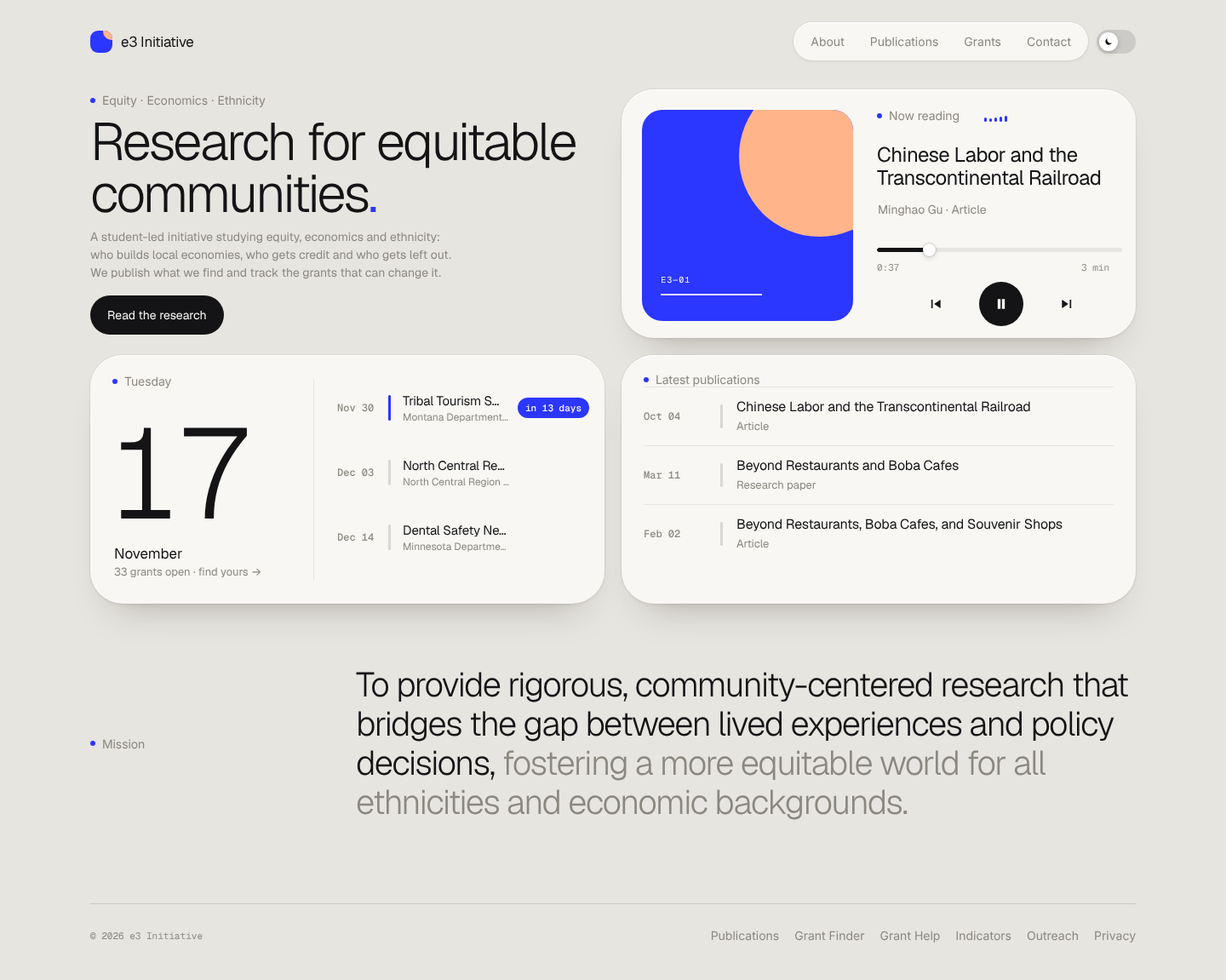
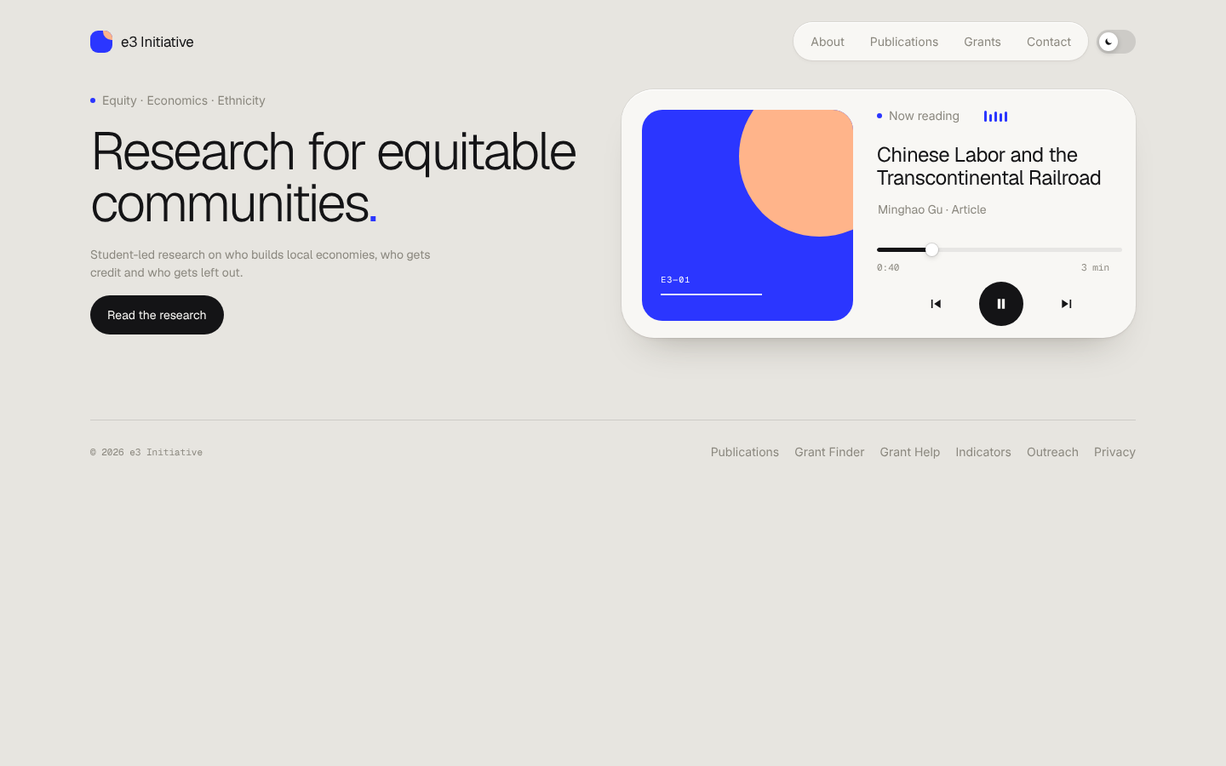
Mockups: minimal homepages
Each home is now a headline, one line, one button and a single signature
element (A: now-reading player, B: three-channel grant mixer, C: weight
specimen). Index, deadlines table and mission removed from the homes.

Claude-Session: https://claude.ai/code/session_011mp1weCWc4EXh1bK3ePj6e

diff --git a/mockups/site-b/index.html b/mockups/site-b/index.html
@@ -8,7 +8,7 @@
   <header class="nav"><a class="brand" href="index.html"><i></i>e3 Initiative</a><nav aria-label="Main"><ul id="nav"><li><a href="about.html">About</a></li><li><a href="articles.html">Publications</a></li><li><a href="grants.html">Grants</a></li><li><a href="contact.html">Contact</a></li></ul></nav>
     <button class="menu-btn cap" aria-controls="nav" aria-expanded="false">Menu</button></header>
   <main id="main">
-<div class="ph"><div><div class="cap">Equity · Economics · Ethnicity</div><h1>Research for equitable communities<span>, and the money to build them.</span></h1></div><div><p>A student-led initiative studying equity, economics and ethnicity: who builds local economies, who gets credit and who gets left out. We publish what we find and track the grants that can change it.</p><div style="margin-top:26px"><a class="mbtn" href="articles.html">Read the research</a></div></div></div><div class="panel desk" ><div class="sheen"></div>
+<div class="ph"><div><div class="cap">Equity · Economics · Ethnicity</div><h1>Research for equitable communities<span>.</span></h1></div><div><p>Student-led research on who builds local economies, who gets credit and who gets left out.</p><div style="margin-top:26px"><a class="mbtn" href="articles.html">Read the research</a></div></div></div><div class="panel desk" ><div class="sheen"></div>
   <div style="display:flex;justify-content:space-between;align-items:flex-start">
     <div><div class="cap">Grant mixer</div><div style="font-size:30px;letter-spacing:-.02em;margin-top:10px">Find funding in seconds</div></div>
     <div style="text-align:right"><div class="cap">Matching</div><div class="mono" style="font-size:30px;letter-spacing:-.02em;margin-top:10px" id="tot">0</div></div>
@@ -18,14 +18,9 @@
       <div class="cap">Deadline window</div>
       <div class="knob" id="win" data-label="Deadline window" style="margin:22px auto 0"></div>
       <div style="text-align:center;margin-top:8px"><div style="font-size:24px;letter-spacing:-.02em" id="wl">Any time</div></div>
-      <div style="margin-top:22px"><div class="mrow cap">Closing soon<b id="mC" style="color:rgb(var(--led-near))">—</b></div><div class="mrow cap">Rolling<b id="mR">—</b></div></div>
+      <a class="mbtn" href="grants.html" style="margin-top:26px;width:100%;justify-content:center">See the grants</a>
     </div>
-  </div>
-  <div id="results" style="margin-top:6px" aria-live="polite"></div></div>
-<section><div class="shead"><div><div class="cap">Latest</div><h2>Publications</h2></div><a href="articles.html">All publications →</a></div>
-  <a class="panel feat" href="article-railroad.html"><div class="sheen"></div><img src="../../image/chinese-workers-summit-tunnel.jpg" alt="Chinese railroad workers among rocks near the opening of Summit Tunnel, 1865–1867"><div class="txt"><div><div class="cap">Article · Oct 04 2026 · Minghao Gu</div><h3>Chinese Labor and the Transcontinental Railroad</h3></div><div><p>Minghao Gu examines the dangerous labor, resistance, and overlooked legacy of Chinese immigrants who helped build the Transcontinental Railroad.</p><div style="display:flex;gap:12px;align-items:center;margin-top:20px"><span class="meter " data-n="12" data-lit="3" data-near="0"></span><span class="cap">3 min</span></div></div></div></a>
-</section>
-<section><div class="cap">Mission</div><p style="font-weight:300;font-size:40px;line-height:1.15;letter-spacing:-.03em;max-width:28ch;margin-top:18px">To provide rigorous, community-centered research that bridges the gap between lived experiences and policy decisions,<span class=dim> fostering a more equitable world for all ethnicities and economic backgrounds.</span></p></section>
+  </div></div>
   </main>
   <footer><span class="cap">© 2026 e3 Initiative</span><nav aria-label="Footer"><a class="cap" href="articles.html">Publications</a><a class="cap" href="grants.html">Grant Finder</a><a class="cap" href="grant-help.html">Grant Help</a><a class="cap" href="economic-indicators.html">Indicators</a><a class="cap" href="outreach.html">Outreach</a><a class="cap" href="privacy.html">Privacy</a></nav></footer>
 </div>
@@ -35,7 +30,7 @@ const G = [["women_owned", "Amber Grant for Women", "WomensNet", 50000, null], [
 const WIN = [[14, '14 days', '14D'], [30, '30 days', '30D'], [60, '60 days', '60D'], [Infinity, 'Any time', 'ANY']];
 const money = v => v >= 1e6 ? '$' + (v / 1e6).toFixed(v % 1e6 ? 1 : 0) + 'M' : v >= 1000 ? '$' + Math.round(v / 1000) + 'k' : '$' + Math.round(v);
 const valAt = p => p < .08 ? 0 : Math.pow(10, 3 + 3 * (p - .08) / .92), posOf = v => v <= 0 ? 0 : .08 + .92 * (Math.log10(v) - 3) / 3;
-const mins = {}, faders = {}; let win = 3;
+const mins = {}; let win = 3;
 CH.forEach(c => { mins[c.id] = 0; const s = document.createElement('div'); s.className = 'strip vline';
   const tk = [[1, '1M'], [posOf(1e5), '100k'], [posOf(1e4), '10k'], [0, '0']].map(([p, l]) => `<span style="top:${(1 - p) * 100}%">${l}</span>`).join('');
   s.innerHTML = `<div class="nm cap"><i style="background:${c.shade}"></i>${c.name}-owned</div>
@@ -43,19 +38,15 @@ CH.forEach(c => { mins[c.id] = 0; const s = document.createElement('div'); s.cla
     <div class="lm">${Array.from({ length: 10 }, (_, k) => `<i style="top:${300 - (k + 1) * 30 + 3}px"></i>`).join('')}</div><div class="tag"></div>
     <div class="val"></div><div class="share cap"></div>`;
   $('#board').insertBefore(s, $('.master')); c.el = s;
-  faders[c.id] = makeFader($('.fader', s), 0, p => { mins[c.id] = valAt(p); render(); }); });
+  makeFader($('.fader', s), 0, p => { mins[c.id] = valAt(p); render(); }); });
 const knob = makeKnob($('#win'), WIN.map(w => w[2]), 3, i => { win = i; render(); });
-function render() { const W = WIN[win][0]; let M = 0, Cl = 0, R = 0; const shown = [];
+function render() { const W = WIN[win][0]; let M = 0;
   CH.forEach(c => { const hit = G.filter(g => g[0] === c.id && (!g[3] || g[3] >= mins[c.id]) && (g[4] === null || g[4] <= W)), dated = hit.filter(g => g[4] !== null).sort((a, b) => a[4] - b[4]);
-    M += hit.length; Cl += dated.length; R += hit.length - dated.length; shown.push(...hit);
-    const lit = hit.length * 2, amber = dated.length * 2, s = c.el;
+    M += hit.length; const lit = hit.length * 2, amber = dated.length * 2, s = c.el;
     $$('.lm i', s).forEach((m, k) => m.className = k < lit ? (k >= lit - amber ? 'near' : 'on') : '');
     const tag = $('.tag', s); tag.style.opacity = dated.length ? 1 : 0; tag.textContent = dated.length ? dated[0][4] + 'd' : ''; tag.style.top = 84 + 300 - Math.max(lit, 1) * 30 - 30 + 'px';
     $('.val', s).textContent = mins[c.id] ? '≥' + money(mins[c.id]) : 'Any amount'; $('.share', s).textContent = hit.length + ' match'; });
-  $('#wl').textContent = WIN[win][1]; $('#tot').textContent = M; $('#mC').textContent = Cl || '—'; $('#mR').textContent = R;
-  shown.sort((a, b) => (a[4] ?? 999) - (b[4] ?? 999) || b[3] - a[3]);
-  $('#results').innerHTML = shown.slice(0, 3).map(g => `<a class="rrow" href="grants.html" style="grid-template-columns:14px 1fr 120px 90px"><span class="led ${g[4] !== null ? 'near' : 'on'}"></span><div><div class="n">${g[1]}</div><div class="f">${g[2]}</div></div><span class="a">${g[3] ? 'up to ' + money(g[3]) : 'varies'}</span><span class="d ${g[4] !== null ? 'near' : ''}">${g[4] !== null ? 'in ' + g[4] + 'd' : 'rolling'}</span></a>`).join('')
-    + `<a class="empty" href="grants.html" style="display:block">${shown.length > 3 ? '+ ' + (shown.length - 3) + ' more · ' : ''}open the full grant finder →</a>`; }
+  $('#wl').textContent = WIN[win][1]; $('#tot').textContent = M; }
 render();
 if (!reduce) setTimeout(() => knob.set(2), 900);
 </script>

diff --git a/mockups/site-a/index.html b/mockups/site-a/index.html
@@ -24,7 +24,7 @@
   <div class="hero">
     <div class="label "><i></i>Equity · Economics · Ethnicity</div>
     <h1>Research for equitable communities<span>.</span></h1>
-    <div><p>A student-led initiative studying equity, economics and ethnicity: who builds local economies, who gets credit and who gets left out. We publish what we find and track the grants that can change it.</p><div class="cta"><a class="btn" href="articles.html">Read the research</a></div></div>
+    <div><p>Student-led research on who builds local economies, who gets credit and who gets left out.</p><div class="cta"><a class="btn" href="articles.html">Read the research</a></div></div>
   </div>
   <div class="tile w2 player rise">
     <div class="pcov">
@@ -41,15 +41,7 @@
     <button class="play" id="play" aria-label="Pause"><svg id="pi" width="20" height="20" viewBox="0 0 24 24" fill="currentColor"><path d="M7 5h4v14H7zM13 5h4v14h-4z"/></svg></button>
     <button class="ctl" style="left:504px" id="next" aria-label="Next piece"><svg width="20" height="20" viewBox="0 0 24 24" fill="currentColor"><path d="M15 6h2v12h-2zM4 6v12l9-6z"/></svg></button>
   </div>
-  <a class="tile w2 cal rise" href="grants.html">
-    <div class="label abs"><i></i>Tuesday</div>
-    <div class="day">17</div><div class="month">November</div>
-    <div class="sum">33 grants open · find yours →</div>
-    <div class="div"></div><div class="list" id="list"><span class="chip a" id="chip"></span></div>
-  </a>
-  <div class="tile w2 rows rise" style="padding-top:20px"><div class="label "><i></i>Latest publications</div><a class="crow" href="article-railroad.html"><span class="t">Oct 04</span><span class="m"></span><div><div class="n">Chinese Labor and the Transcontinental Railroad</div><div class=d>Article</div></div></a><a class="crow" href="research-chinatown.html"><span class="t">Mar 11</span><span class="m"></span><div><div class="n">Beyond Restaurants and Boba Cafes</div><div class=d>Research paper</div></div></a><a class="crow" href="article-chinatown.html"><span class="t">Feb 02</span><span class="m"></span><div><div class="n">Beyond Restaurants, Boba Cafes, and Souvenir Shops</div><div class=d>Article</div></div></a></div>
 </div>
-<section class="mission"><div class="label "><i></i>Mission</div><p>To provide rigorous, community-centered research that bridges the gap between lived experiences and policy decisions, <span>fostering a more equitable world for all ethnicities and economic backgrounds.</span></p></section>
 
   </main>
   <footer>
@@ -59,7 +51,7 @@
 </div>
 <script src="theme.js"></script>
 <script>
-const PIECES = [{"t": "Chinese Labor and the Transcontinental Railroad", "by": "Minghao Gu \u00b7 Article", "len": 3, "href": "article-railroad.html"}, {"t": "Beyond Restaurants and Boba Cafes", "by": "Minghao Gu \u00b7 Research paper", "len": 8, "href": "research-chinatown.html"}, {"t": "Beyond Restaurants, Boba Cafes, and Souvenir Shops", "by": "Minghao Gu \u00b7 Article", "len": 4, "href": "article-chinatown.html"}], EVENTS = [{"t": "Nov 30", "n": "Spark Good Local Grants", "d": "Walmart \u00b7 $5k", "chip": "in 13 days"}, {"t": "Nov 30", "n": "Tribal Tourism Small Business Grant", "d": "Montana Department of Commerce \u00b7 $10k", "chip": "in 13 days"}, {"t": "Dec 03", "n": "North Central Region SARE Farmer Rancher Grant", "d": "North Central Region SARE \u00b7 $30k", "chip": "in 16 days"}, {"t": "Dec 14", "n": "Dental Safety Net Grant Program", "d": "Minnesota Department of Health \u00b7 $34k", "chip": "in 27 days"}, {"t": "Dec 15", "n": "2027 Heroes Small Business Grant Program", "d": "Hiring Our Heroes \u00b7 $25k", "chip": "in 28 days"}, {"t": "Dec 16", "n": "Public Humanities Projects", "d": "National Endowment for the Humanities \u00b7 $500k", "chip": "in 29 days"}];
+const PIECES = [{"t": "Chinese Labor and the Transcontinental Railroad", "by": "Minghao Gu \u00b7 Article", "len": 3, "href": "article-railroad.html"}, {"t": "Beyond Restaurants and Boba Cafes", "by": "Minghao Gu \u00b7 Research paper", "len": 8, "href": "research-chinatown.html"}, {"t": "Beyond Restaurants, Boba Cafes, and Souvenir Shops", "by": "Minghao Gu \u00b7 Article", "len": 4, "href": "article-chinatown.html"}];
 let cur = 0, pos = 0.4, playing = !reduce; const arts = $$('.art');
 function setText() { $('#ttl').textContent = PIECES[cur].t; $('#ttl').href = PIECES[cur].href; $('#by').textContent = PIECES[cur].by; $('#len').textContent = PIECES[cur].len + ' min'; }
 function show(i, dir) { const old = arts[cur]; cur = (i + 3) % 3; const nu = arts[cur];
@@ -73,10 +65,6 @@ const bars = $$('.eq b'); let last = performance.now();
   const f = Math.min(1, pos / PIECES[cur].len), w = $('.prog').offsetWidth; $('#pf').style.width = w * f + 'px'; $('#pk').style.left = $('.prog').offsetLeft + w * f + 'px';
   $('#el').textContent = Math.floor(pos) + ':' + String(Math.floor((pos % 1) * 60)).padStart(2, '0');
   bars.forEach((b, i) => b.style.height = (playing ? 4 + 10 * Math.abs(Math.sin(now / 1000 * (5 + i * 1.7) + i)) : 3) + 'px'); requestAnimationFrame(loop); })(last);
-const rows = EVENTS.map(e => { const r = document.createElement('div'); r.className = 'row'; r.innerHTML = `<span class="t">${e.t}</span><span class="m"></span><div><div class="n">${e.n}</div><div class="d">${e.d}</div></div>`; $('#list').insertBefore(r, $('#chip')); return r; });
-let top0 = 0; function place() { rows.forEach((r, i) => { const k = i - top0; r.style.top = k * 76 + 'px'; r.style.opacity = k >= 0 && k < 3 ? 1 : 0; r.classList.toggle('next', k === 0); });
-  $('#chip').style.opacity = 0; setTimeout(() => { $('#chip').textContent = EVENTS[top0].chip; $('#chip').style.opacity = 1; }, 300); }
-place(); if (!reduce) setInterval(() => { top0 = (top0 + 1) % (EVENTS.length - 2); place(); }, 3600);
 </script>
 </body>
 </html>

diff --git a/mockups/site-c/index.html b/mockups/site-c/index.html
@@ -14,12 +14,9 @@
   <div class="slider" id="sl" data-label="Weight" data-ro="hover the word for a lens"></div>
   <div class="lede2">
     <h1>Some contributions get set in <span class="w1">thin</span>. We research to give them their <span class="w8">full weight.</span></h1>
-    <div><p>A student-led initiative studying equity, economics and ethnicity: who builds local economies, who gets credit and who gets left out. We publish what we find and track the grants that can change it.</p><div class="btns"><a class="pill" href="articles.html">Read the research</a></div></div>
+    <div><p>Student-led research on who builds local economies, who gets credit and who gets left out.</p><div class="btns"><a class="pill" href="articles.html">Read the research</a></div></div>
   </div>
 </div>
-<section><div class="sh"><h2>Index</h2><a href="articles.html">All publications →</a></div><a class="pub" href="article-railroad.html"><div class="no">01</div><div><h3>Chinese Labor and the Transcontinental Railroad: The Uncredited Contributions and Lost Legacy</h3><p>Minghao Gu examines the dangerous labor, resistance, and overlooked legacy of Chinese immigrants who helped build the Transcontinental Railroad.</p></div><div><div class="meta"><b>Article</b><br>Oct 04 2026<br>Minghao Gu · 3 min</div></div></a><a class="pub" href="research-chinatown.html"><div class="no">02</div><div><h3>Beyond Restaurants and Boba Cafes: The Historical and Modern Economic Solidarity of Chinatown</h3><p>Full research paper examining the historical origins, cultural preservation, and modern resilience of Chinatown as an ethnic economy built on solidarity, identity, and community.</p></div><div><div class="meta"><b>Research paper</b><br>Mar 11 2026<br>Minghao Gu · 8 min</div></div></a><a class="pub" href="article-chinatown.html"><div class="no">03</div><div><h3>Beyond Restaurants, Boba Cafes, and Souvenir Shops: The Historical and Modern Economic Solidarity of Chinatown</h3><p>A historical and contemporary look at how Chinatowns foster economic solidarity, cultural preservation, and community resilience across generations.</p></div><div><div class="meta"><b>Article</b><br>Feb 02 2026<br>Minghao Gu · 4 min</div></div></a></section>
-<section><div class="sh"><h2>Closing soon</h2><a href="grants.html">All 33 open grants →</a></div>
-  <table class="gt"><thead><tr><th>Grant</th><th>Max award</th><th style="text-align:right">Deadline</th></tr></thead><tbody><tr class="hot" onclick="window.open('https://www.walmart.org/how-we-give/program-guidelines/spark-good-local-grants-guidelines','_blank')"><td><div class="n">Spark Good Local Grants</div><div class="f">Walmart</div></td><td class="a">$5k</td><td class="d" style="font-variation-settings:'wght' 738">Nov 30<small>in 13 days · wght 738</small></td></tr><tr class="hot" onclick="window.open('https://commerce.mt.gov/Business/Indian-Country/Indian-Country-Financial-Assistance/Tribal-Tourism-Small-Business-Grant','_blank')"><td><div class="n">Tribal Tourism Small Business Grant</div><div class="f">Montana Department of Commerce</div></td><td class="a">$10k</td><td class="d" style="font-variation-settings:'wght' 738">Nov 30<small>in 13 days · wght 738</small></td></tr><tr class="" onclick="window.open('https://northcentral.sare.org/grants/apply-for-a-grant/farmer-rancher-grant/','_blank')"><td><div class="n">North Central Region SARE Farmer Rancher Grant</div><div class="f">North Central Region SARE (NCR-SARE)</div></td><td class="a">$30k</td><td class="d" style="font-variation-settings:'wght' 700">Dec 03<small>in 16 days · wght 700</small></td></tr><tr class="" onclick="window.open('https://www.health.state.mn.us/facilities/ruralhealth/funding/grants/index.html','_blank')"><td><div class="n">Dental Safety Net Grant Program</div><div class="f">Minnesota Department of Health</div></td><td class="a">$34k</td><td class="d" style="font-variation-settings:'wght' 562">Dec 14<small>in 27 days · wght 562</small></td></tr></tbody></table></section>
 
   </main>
   <footer><span class="lab">© 2026 e3 Initiative · set in Geist</span><nav aria-label="Footer"><a href="articles.html">Publications</a><a href="grants.html">Grant Finder</a><a href="grant-help.html">Grant Help</a><a href="economic-indicators.html">Indicators</a><a href="outreach.html">Outreach</a><a href="privacy.html">Privacy</a></nav></footer>

diff --git a/mockups/build/minimal2.py b/mockups/build/minimal2.py
@@ -1,0 +1,115 @@
+"""Homepage-only minimal pass: headline, one line, one button, one signature element."""
+from common import replace_func
+
+HOME_A = r'''
+def home():
+    """Nav, hero, one player tile, footer."""
+    pieces = [{"t": p["title"].split(":")[0], "by": f'{p["author"]} · {p["kind"]}', "len": p["min"], "href": p["slug"] + ".html"} for p in PUBS]
+    import json as _j
+    body = f"""
+<div class="home">
+  <div class="hero">
+    {label('Equity · Economics · Ethnicity')}
+    <h1>{TAGLINE}<span>.</span></h1>
+    <div><p>Student-led research on who builds local economies, who gets credit and who gets left out.</p><div class="cta"><a class="btn" href="articles.html">Read the research</a></div></div>
+  </div>
+  <div class="tile w2 player rise">
+    <div class="pcov">
+      <div class="art cover cv-a"><span class="mk">E3—01</span></div>
+      <div class="art cover cv-b" style="transform:translateX(110%)"><span class="mk">E3—02</span></div>
+      <div class="art cover cv-c" style="transform:translateX(110%)"><span class="mk">E3—03</span></div>
+    </div>
+    {label('Now reading', 'abs')}
+    <div class="eq" aria-hidden="true">{''.join(f'<b style="left:{i*6}px"></b>' for i in range(5))}</div>
+    <a class="ttl" id="ttl" href="#"></a><div class="by" id="by"></div>
+    <div class="prog"><div class="f" id="pf"></div></div><div class="knob" id="pk"></div>
+    <div class="times" id="el" style="left:300px">0:00</div><div class="times" id="len" style="left:540px"></div>
+    <button class="ctl" style="left:348px" id="prev" aria-label="Previous piece"><svg width="20" height="20" viewBox="0 0 24 24" fill="currentColor"><path d="M7 6h2v12H7zM20 6v12l-9-6z"/></svg></button>
+    <button class="play" id="play" aria-label="Pause"><svg id="pi" width="20" height="20" viewBox="0 0 24 24" fill="currentColor"><path d="M7 5h4v14H7zM13 5h4v14h-4z"/></svg></button>
+    <button class="ctl" style="left:504px" id="next" aria-label="Next piece"><svg width="20" height="20" viewBox="0 0 24 24" fill="currentColor"><path d="M15 6h2v12h-2zM4 6v12l9-6z"/></svg></button>
+  </div>
+</div>
+"""
+    js = f"""<script>
+const PIECES = {_j.dumps(pieces)};
+let cur = 0, pos = 0.4, playing = !reduce; const arts = $$('.art');
+function setText() {{ $('#ttl').textContent = PIECES[cur].t; $('#ttl').href = PIECES[cur].href; $('#by').textContent = PIECES[cur].by; $('#len').textContent = PIECES[cur].len + ' min'; }}
+function show(i, dir) {{ const old = arts[cur]; cur = (i + 3) % 3; const nu = arts[cur];
+  nu.style.transition = 'none'; nu.style.transform = `translateX(${{dir * 110}}%)`; nu.style.opacity = 1; nu.style.zIndex = 2; old.style.zIndex = 1;
+  requestAnimationFrame(() => requestAnimationFrame(() => {{ nu.style.transition = ''; nu.style.transform = 'none'; old.style.transform = `translateX(${{-dir * 40}}px) scale(.94)`; old.style.opacity = .1; }}));
+  ['#ttl', '#by'].forEach(s => $(s).style.opacity = 0); setTimeout(() => {{ setText(); ['#ttl', '#by'].forEach(s => $(s).style.opacity = 1); }}, 150); pos = 0; }}
+setText(); $('#next').onclick = () => show(cur + 1, 1); $('#prev').onclick = () => show(cur - 1, -1);
+$('#play').onclick = () => {{ playing = !playing; $('#play').setAttribute('aria-label', playing ? 'Pause' : 'Play'); $('#pi').innerHTML = playing ? '<path d="M7 5h4v14H7zM13 5h4v14h-4z"/>' : '<path d="M8 5v14l11-7z"/>'; }};
+const bars = $$('.eq b'); let last = performance.now();
+(function loop(now) {{ const dt = (now - last) / 1000; last = now; if (playing) pos += dt * 0.05;
+  const f = Math.min(1, pos / PIECES[cur].len), w = $('.prog').offsetWidth; $('#pf').style.width = w * f + 'px'; $('#pk').style.left = $('.prog').offsetLeft + w * f + 'px';
+  $('#el').textContent = Math.floor(pos) + ':' + String(Math.floor((pos % 1) * 60)).padStart(2, '0');
+  bars.forEach((b, i) => b.style.height = (playing ? 4 + 10 * Math.abs(Math.sin(now / 1000 * (5 + i * 1.7) + i)) : 3) + 'px'); requestAnimationFrame(loop); }})(last);
+</script>"""
+    return shell("index", body, js)
+'''
+
+HOME_B = r'''
+def home():
+    """Nav, hero, one three-channel mixer, footer."""
+    three = [("minority_owned", "Minority", "#f1f1f3"), ("women_owned", "Women", "#c6c6cb"), ("veteran_owned", "Veteran", "#8a8a90")]
+    G = [[g["category"], g["name"], g["funder"].split(" (")[0], g.get("amountMax") or 0, days_left(g)] for g in OPEN if g["category"] in [a for a, _, _ in three]]
+    body = ph("Equity · Economics · Ethnicity", f"{TAGLINE}<span>.</span>", "Student-led research on who builds local economies, who gets credit and who gets left out.",
+              '<div style="margin-top:26px"><a class="mbtn" href="articles.html">Read the research</a></div>') + panel(f"""
+  <div style="display:flex;justify-content:space-between;align-items:flex-start">
+    <div><div class="cap">Grant mixer</div><div style="font-size:30px;letter-spacing:-.02em;margin-top:10px">Find funding in seconds</div></div>
+    <div style="text-align:right"><div class="cap">Matching</div><div class="mono" style="font-size:30px;letter-spacing:-.02em;margin-top:10px" id="tot">0</div></div>
+  </div>
+  <div class="board mini3" id="board">
+    <div class="master vline">
+      <div class="cap">Deadline window</div>
+      <div class="knob" id="win" data-label="Deadline window" style="margin:22px auto 0"></div>
+      <div style="text-align:center;margin-top:8px"><div style="font-size:24px;letter-spacing:-.02em" id="wl">Any time</div></div>
+      <a class="mbtn" href="grants.html" style="margin-top:26px;width:100%;justify-content:center">See the grants</a>
+    </div>
+  </div>""", "desk")
+    js = f"""<script>
+const G = {json.dumps(G, ensure_ascii=False)}, CH = {json.dumps([{"id": a, "name": b, "shade": c} for a, b, c in three])};
+const WIN = [[14, '14 days', '14D'], [30, '30 days', '30D'], [60, '60 days', '60D'], [Infinity, 'Any time', 'ANY']];
+const money = v => v >= 1e6 ? '$' + (v / 1e6).toFixed(v % 1e6 ? 1 : 0) + 'M' : v >= 1000 ? '$' + Math.round(v / 1000) + 'k' : '$' + Math.round(v);
+const valAt = p => p < .08 ? 0 : Math.pow(10, 3 + 3 * (p - .08) / .92), posOf = v => v <= 0 ? 0 : .08 + .92 * (Math.log10(v) - 3) / 3;
+const mins = {{}}; let win = 3;
+CH.forEach(c => {{ mins[c.id] = 0; const s = document.createElement('div'); s.className = 'strip vline';
+  const tk = [[1, '1M'], [posOf(1e5), '100k'], [posOf(1e4), '10k'], [0, '0']].map(([p, l]) => `<span style="top:${{(1 - p) * 100}}%">${{l}}</span>`).join('');
+  s.innerHTML = `<div class="nm cap"><i style="background:${{c.shade}}"></i>${{c.name}}-owned</div>
+    <div class="fader"><div class="fticks">${{tk}}</div><div class="trk"><div class="fill"></div></div><div class="fcap" tabindex="0" role="slider" aria-label="Minimum award, ${{c.name}}-owned"></div></div>
+    <div class="lm">${{Array.from({{ length: 10 }}, (_, k) => `<i style="top:${{300 - (k + 1) * 30 + 3}}px"></i>`).join('')}}</div><div class="tag"></div>
+    <div class="val"></div><div class="share cap"></div>`;
+  $('#board').insertBefore(s, $('.master')); c.el = s;
+  makeFader($('.fader', s), 0, p => {{ mins[c.id] = valAt(p); render(); }}); }});
+const knob = makeKnob($('#win'), WIN.map(w => w[2]), 3, i => {{ win = i; render(); }});
+function render() {{ const W = WIN[win][0]; let M = 0;
+  CH.forEach(c => {{ const hit = G.filter(g => g[0] === c.id && (!g[3] || g[3] >= mins[c.id]) && (g[4] === null || g[4] <= W)), dated = hit.filter(g => g[4] !== null).sort((a, b) => a[4] - b[4]);
+    M += hit.length; const lit = hit.length * 2, amber = dated.length * 2, s = c.el;
+    $$('.lm i', s).forEach((m, k) => m.className = k < lit ? (k >= lit - amber ? 'near' : 'on') : '');
+    const tag = $('.tag', s); tag.style.opacity = dated.length ? 1 : 0; tag.textContent = dated.length ? dated[0][4] + 'd' : ''; tag.style.top = 84 + 300 - Math.max(lit, 1) * 30 - 30 + 'px';
+    $('.val', s).textContent = mins[c.id] ? '≥' + money(mins[c.id]) : 'Any amount'; $('.share', s).textContent = hit.length + ' match'; }});
+  $('#wl').textContent = WIN[win][1]; $('#tot').textContent = M; }}
+render();
+if (!reduce) setTimeout(() => knob.set(2), 900);
+</script>"""
+    return shell("index", body, js)
+'''
+
+
+def apply():
+    for fn, name, src in [("theme_a.py", "home", HOME_A), ("theme_b.py", "home", HOME_B)]:
+        s = open(fn).read()
+        open(fn, "w").write(replace_func(s, name, src))
+    # C: keep the specimen and the lede; drop the index and the closing-soon table
+    s = open("theme_c.py").read()
+    a = s.index('<section><div class="sh"><h2>Index</h2>')
+    b = s.index('</table></section>"""', a) + len('</table></section>')
+    s = s[:a] + s[b:]
+    s = s.replace('<div><p>{LEDE}</p><div class="btns"><a class="pill" href="articles.html">Read the research</a></div></div>',
+                  '<div><p>Student-led research on who builds local economies, who gets credit and who gets left out.</p><div class="btns"><a class="pill" href="articles.html">Read the research</a></div></div>')
+    open("theme_c.py", "w").write(s)
+
+
+if __name__ == "__main__":
+    apply()

diff --git a/mockups/build/theme_b.py b/mockups/build/theme_b.py
@@ -363,11 +363,10 @@ def prow(p):
 
 # ——— pages ———
 def home():
-    """Seven blocks: nav, hero, a three-channel mixer, its top matches, the latest piece, mission, footer."""
+    """Nav, hero, one three-channel mixer, footer."""
     three = [("minority_owned", "Minority", "#f1f1f3"), ("women_owned", "Women", "#c6c6cb"), ("veteran_owned", "Veteran", "#8a8a90")]
     G = [[g["category"], g["name"], g["funder"].split(" (")[0], g.get("amountMax") or 0, days_left(g)] for g in OPEN if g["category"] in [a for a, _, _ in three]]
-    p0 = PUBS[0]
-    body = ph("Equity · Economics · Ethnicity", f"{TAGLINE}<span>, and the money to build them.</span>", LEDE,
+    body = ph("Equity · Economics · Ethnicity", f"{TAGLINE}<span>.</span>", "Student-led research on who builds local economies, who gets credit and who gets left out.",
               '<div style="margin-top:26px"><a class="mbtn" href="articles.html">Read the research</a></div>') + panel(f"""
   <div style="display:flex;justify-content:space-between;align-items:flex-start">
     <div><div class="cap">Grant mixer</div><div style="font-size:30px;letter-spacing:-.02em;margin-top:10px">Find funding in seconds</div></div>
@@ -378,20 +377,15 @@ def home():
       <div class="cap">Deadline window</div>
       <div class="knob" id="win" data-label="Deadline window" style="margin:22px auto 0"></div>
       <div style="text-align:center;margin-top:8px"><div style="font-size:24px;letter-spacing:-.02em" id="wl">Any time</div></div>
-      <div style="margin-top:22px"><div class="mrow cap">Closing soon<b id="mC" style="color:rgb(var(--led-near))">—</b></div><div class="mrow cap">Rolling<b id="mR">—</b></div></div>
+      <a class="mbtn" href="grants.html" style="margin-top:26px;width:100%;justify-content:center">See the grants</a>
     </div>
-  </div>
-  <div id="results" style="margin-top:6px" aria-live="polite"></div>""", "desk") + f"""
-<section><div class="shead"><div><div class="cap">Latest</div><h2>Publications</h2></div><a href="articles.html">All publications →</a></div>
-  {panel(f'<img src="{IMG}{p0["img"]}" alt="{esc(p0["alt"])}"><div class="txt"><div><div class="cap">{p0["kind"]} · {p0["short"]} · {p0["author"]}</div><h3>{esc(p0["title"].split(":")[0])}</h3></div><div><p>{esc(p0["summary"])}</p><div style="display:flex;gap:12px;align-items:center;margin-top:20px">{meter(12, p0["min"])}<span class="cap">{p0["min"]} min</span></div></div></div>', "feat", "a", f'href="{p0["slug"]}.html"')}
-</section>
-<section><div class="cap">Mission</div><p style="font-weight:300;font-size:40px;line-height:1.15;letter-spacing:-.03em;max-width:28ch;margin-top:18px">{MISSION.replace(', fostering', ',<span class=dim> fostering').replace('backgrounds.', 'backgrounds.</span>')}</p></section>"""
+  </div>""", "desk")
     js = f"""<script>
 const G = {json.dumps(G, ensure_ascii=False)}, CH = {json.dumps([{"id": a, "name": b, "shade": c} for a, b, c in three])};
 const WIN = [[14, '14 days', '14D'], [30, '30 days', '30D'], [60, '60 days', '60D'], [Infinity, 'Any time', 'ANY']];
 const money = v => v >= 1e6 ? '$' + (v / 1e6).toFixed(v % 1e6 ? 1 : 0) + 'M' : v >= 1000 ? '$' + Math.round(v / 1000) + 'k' : '$' + Math.round(v);
 const valAt = p => p < .08 ? 0 : Math.pow(10, 3 + 3 * (p - .08) / .92), posOf = v => v <= 0 ? 0 : .08 + .92 * (Math.log10(v) - 3) / 3;
-const mins = {{}}, faders = {{}}; let win = 3;
+const mins = {{}}; let win = 3;
 CH.forEach(c => {{ mins[c.id] = 0; const s = document.createElement('div'); s.className = 'strip vline';
   const tk = [[1, '1M'], [posOf(1e5), '100k'], [posOf(1e4), '10k'], [0, '0']].map(([p, l]) => `<span style="top:${{(1 - p) * 100}}%">${{l}}</span>`).join('');
   s.innerHTML = `<div class="nm cap"><i style="background:${{c.shade}}"></i>${{c.name}}-owned</div>
@@ -399,19 +393,15 @@ CH.forEach(c => {{ mins[c.id] = 0; const s = document.createElement('div'); s.cl
     <div class="lm">${{Array.from({{ length: 10 }}, (_, k) => `<i style="top:${{300 - (k + 1) * 30 + 3}}px"></i>`).join('')}}</div><div class="tag"></div>
     <div class="val"></div><div class="share cap"></div>`;
   $('#board').insertBefore(s, $('.master')); c.el = s;
-  faders[c.id] = makeFader($('.fader', s), 0, p => {{ mins[c.id] = valAt(p); render(); }}); }});
+  makeFader($('.fader', s), 0, p => {{ mins[c.id] = valAt(p); render(); }}); }});
 const knob = makeKnob($('#win'), WIN.map(w => w[2]), 3, i => {{ win = i; render(); }});
-function render() {{ const W = WIN[win][0]; let M = 0, Cl = 0, R = 0; const shown = [];
+function render() {{ const W = WIN[win][0]; let M = 0;
   CH.forEach(c => {{ const hit = G.filter(g => g[0] === c.id && (!g[3] || g[3] >= mins[c.id]) && (g[4] === null || g[4] <= W)), dated = hit.filter(g => g[4] !== null).sort((a, b) => a[4] - b[4]);
-    M += hit.length; Cl += dated.length; R += hit.length - dated.length; shown.push(...hit);
-    const lit = hit.length * 2, amber = dated.length * 2, s = c.el;
+    M += hit.length; const lit = hit.length * 2, amber = dated.length * 2, s = c.el;
     $$('.lm i', s).forEach((m, k) => m.className = k < lit ? (k >= lit - amber ? 'near' : 'on') : '');
     const tag = $('.tag', s); tag.style.opacity = dated.length ? 1 : 0; tag.textContent = dated.length ? dated[0][4] + 'd' : ''; tag.style.top = 84 + 300 - Math.max(lit, 1) * 30 - 30 + 'px';
     $('.val', s).textContent = mins[c.id] ? '≥' + money(mins[c.id]) : 'Any amount'; $('.share', s).textContent = hit.length + ' match'; }});
-  $('#wl').textContent = WIN[win][1]; $('#tot').textContent = M; $('#mC').textContent = Cl || '—'; $('#mR').textContent = R;
-  shown.sort((a, b) => (a[4] ?? 999) - (b[4] ?? 999) || b[3] - a[3]);
-  $('#results').innerHTML = shown.slice(0, 3).map(g => `<a class="rrow" href="grants.html" style="grid-template-columns:14px 1fr 120px 90px"><span class="led ${{g[4] !== null ? 'near' : 'on'}}"></span><div><div class="n">${{g[1]}}</div><div class="f">${{g[2]}}</div></div><span class="a">${{g[3] ? 'up to ' + money(g[3]) : 'varies'}}</span><span class="d ${{g[4] !== null ? 'near' : ''}}">${{g[4] !== null ? 'in ' + g[4] + 'd' : 'rolling'}}</span></a>`).join('')
-    + `<a class="empty" href="grants.html" style="display:block">${{shown.length > 3 ? '+ ' + (shown.length - 3) + ' more · ' : ''}}open the full grant finder →</a>`; }}
+  $('#wl').textContent = WIN[win][1]; $('#tot').textContent = M; }}
 render();
 if (!reduce) setTimeout(() => knob.set(2), 900);
 </script>"""

diff --git a/mockups/build/theme_a.py b/mockups/build/theme_a.py
@@ -444,9 +444,7 @@ def status_chip(s, d=None):
 
 # ——— Pages ———
 def home():
-    """Seven blocks: nav, hero, now reading, deadlines, publications, mission, footer."""
-    soon = DATED_SOON[:6]
-    rows_js = [{"t": deadline_label(g), "n": g["name"], "d": f'{g["funder"].split(" (")[0]} · {money(g.get("amountMax"))}', "chip": f"in {days_left(g)} days"} for g in soon]
+    """Nav, hero, one player tile, footer."""
     pieces = [{"t": p["title"].split(":")[0], "by": f'{p["author"]} · {p["kind"]}', "len": p["min"], "href": p["slug"] + ".html"} for p in PUBS]
     import json as _j
     body = f"""
@@ -454,7 +452,7 @@ def home():
   <div class="hero">
     {label('Equity · Economics · Ethnicity')}
     <h1>{TAGLINE}<span>.</span></h1>
-    <div><p>{LEDE}</p><div class="cta"><a class="btn" href="articles.html">Read the research</a></div></div>
+    <div><p>Student-led research on who builds local economies, who gets credit and who gets left out.</p><div class="cta"><a class="btn" href="articles.html">Read the research</a></div></div>
   </div>
   <div class="tile w2 player rise">
     <div class="pcov">
@@ -471,18 +469,10 @@ def home():
     <button class="play" id="play" aria-label="Pause"><svg id="pi" width="20" height="20" viewBox="0 0 24 24" fill="currentColor"><path d="M7 5h4v14H7zM13 5h4v14h-4z"/></svg></button>
     <button class="ctl" style="left:504px" id="next" aria-label="Next piece"><svg width="20" height="20" viewBox="0 0 24 24" fill="currentColor"><path d="M15 6h2v12h-2zM4 6v12l9-6z"/></svg></button>
   </div>
-  <a class="tile w2 cal rise" href="grants.html">
-    {label(TODAY.strftime('%A'), 'abs')}
-    <div class="day">{TODAY.day}</div><div class="month">{TODAY.strftime('%B')}</div>
-    <div class="sum">{len(OPEN)} grants open · find yours →</div>
-    <div class="div"></div><div class="list" id="list"><span class="chip a" id="chip"></span></div>
-  </a>
-  <div class="tile w2 rows rise" style="padding-top:20px">{label('Latest publications')}{''.join(crow(p['short'][:6], esc(p['title'].split(':')[0]), p['kind'], p['slug'] + '.html') for p in PUBS)}</div>
 </div>
-<section class="mission">{label('Mission')}<p>{MISSION.replace(', fostering', ', <span>fostering').replace('backgrounds.', 'backgrounds.</span>')}</p></section>
 """
     js = f"""<script>
-const PIECES = {_j.dumps(pieces)}, EVENTS = {_j.dumps(rows_js)};
+const PIECES = {_j.dumps(pieces)};
 let cur = 0, pos = 0.4, playing = !reduce; const arts = $$('.art');
 function setText() {{ $('#ttl').textContent = PIECES[cur].t; $('#ttl').href = PIECES[cur].href; $('#by').textContent = PIECES[cur].by; $('#len').textContent = PIECES[cur].len + ' min'; }}
 function show(i, dir) {{ const old = arts[cur]; cur = (i + 3) % 3; const nu = arts[cur];
@@ -496,10 +486,6 @@ const bars = $$('.eq b'); let last = performance.now();
   const f = Math.min(1, pos / PIECES[cur].len), w = $('.prog').offsetWidth; $('#pf').style.width = w * f + 'px'; $('#pk').style.left = $('.prog').offsetLeft + w * f + 'px';
   $('#el').textContent = Math.floor(pos) + ':' + String(Math.floor((pos % 1) * 60)).padStart(2, '0');
   bars.forEach((b, i) => b.style.height = (playing ? 4 + 10 * Math.abs(Math.sin(now / 1000 * (5 + i * 1.7) + i)) : 3) + 'px'); requestAnimationFrame(loop); }})(last);
-const rows = EVENTS.map(e => {{ const r = document.createElement('div'); r.className = 'row'; r.innerHTML = `<span class="t">${{e.t}}</span><span class="m"></span><div><div class="n">${{e.n}}</div><div class="d">${{e.d}}</div></div>`; $('#list').insertBefore(r, $('#chip')); return r; }});
-let top0 = 0; function place() {{ rows.forEach((r, i) => {{ const k = i - top0; r.style.top = k * 76 + 'px'; r.style.opacity = k >= 0 && k < 3 ? 1 : 0; r.classList.toggle('next', k === 0); }});
-  $('#chip').style.opacity = 0; setTimeout(() => {{ $('#chip').textContent = EVENTS[top0].chip; $('#chip').style.opacity = 1; }}, 300); }}
-place(); if (!reduce) setInterval(() => {{ top0 = (top0 + 1) % (EVENTS.length - 2); place(); }}, 3600);
 </script>"""
     return shell("index", body, js)
 

diff --git a/mockups/build/theme_c.py b/mockups/build/theme_c.py
@@ -346,12 +346,9 @@ def home():
   <div class="slider" id="sl" data-label="Weight" data-ro="hover the word for a lens"></div>
   <div class="lede2">
     <h1>Some contributions get set in <span class="w1">thin</span>. We research to give them their <span class="w8">full weight.</span></h1>
-    <div><p>{LEDE}</p><div class="btns"><a class="pill" href="articles.html">Read the research</a></div></div>
+    <div><p>Student-led research on who builds local economies, who gets credit and who gets left out.</p><div class="btns"><a class="pill" href="articles.html">Read the research</a></div></div>
   </div>
 </div>
-<section><div class="sh"><h2>Index</h2><a href="articles.html">All publications →</a></div>{''.join(pub_row(i, p, False) for i, p in enumerate(PUBS))}</section>
-<section><div class="sh"><h2>Closing soon</h2><a href="grants.html">All {len(OPEN)} open grants →</a></div>
-  <table class="gt"><thead><tr><th>Grant</th><th>Max award</th><th style="text-align:right">Deadline</th></tr></thead><tbody>{''.join(grant_tr(g) for g in soon)}</tbody></table></section>
 """
     js = r"""<script>
 const band = $('#band'), word = $('#word'), guides = $('#guides'); let L = null, weight = 100, lensX = null, G = {};
